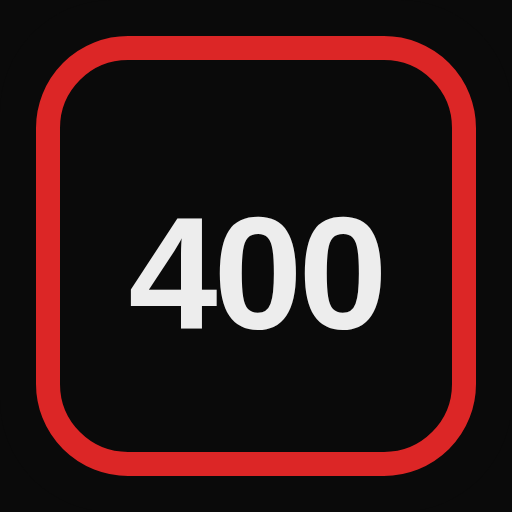
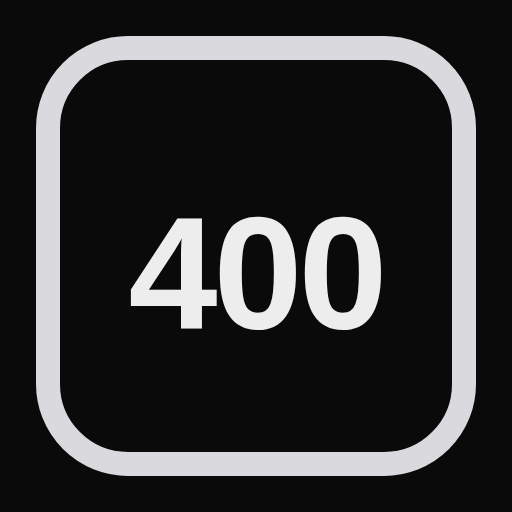
style: srebrne zamiast czerwieni/bursztynu/niebieskiego, metaliczny połysk kart i przycisków, ikony kategorii na kafelkach DIY

Changed region(s): [[0.0625, 0.0625, 0.9375, 0.9375]]

diff --git a/src/app/Encyclopedia.tsx b/src/app/Encyclopedia.tsx
@@ -21,7 +21,7 @@ import { EngineTable, FluidsTable, PartSourceNote, OemQuickList, TorqueTable } f
 import { PARTS } from '../lib/parts-catalog';
 import ModelThumb from './ModelThumb';
 import EntryTile from './ui/EntryTile';
-import { excerptOf, getIssueImage, getTipImage } from '../lib/entry-tile';
+import { excerptOf, getIssueImage, getTipIcon, getTipImage } from '../lib/entry-tile';
 import { tileImageFor } from '../lib/entry-media';
 import { isGeneralEntry, isSpecificToBody } from '../lib/model-images';
 import { hasSource } from './IssueDetails';
@@ -674,7 +674,7 @@ export default function Encyclopedia({ initialTab, initialItems }: { initialTab?
             )}
             <div className="space-y-3">
               {diyTips.map((t, idx) => (
-                <EntryTile key={t.id || idx} item={t} icon="diy" image={tileImageFor(t.id, getTipImage(t.Nazwa))} excerpt={excerptOf(t, ['Opis', 'Rozwiązanie'])} sourced={hasSource(t)} sourcedTestId="diy-sourced">
+                <EntryTile key={t.id || idx} item={t} icon={getTipIcon(t.Nazwa)} image={tileImageFor(t.id, getTipImage(t.Nazwa))} excerpt={excerptOf(t, ['Opis', 'Rozwiązanie'])} sourced={hasSource(t)} sourcedTestId="diy-sourced">
                   <VehicleMatchBadge item={t} />
                 </EntryTile>
               ))}
@@ -1274,7 +1274,7 @@ export default function Encyclopedia({ initialTab, initialItems }: { initialTab?
                   <tr className="border-b border-white/5"><td className="p-2">Miejsca</td><td className="text-center">3-6</td><td className="text-center">3-6</td><td className="text-center">5-6</td><td className="text-center">6-9</td></tr>
                   <tr className="border-b border-white/5"><td className="p-2">Silniki</td><td className="text-center">4.3-5.7L</td><td className="text-center">4.3-5.7L</td><td className="text-center">5.7L</td><td className="text-center">5.7-7.4L</td></tr>
                   <tr className="border-b border-white/5"><td className="p-2">Spalanie</td><td className="text-center">12-15 L</td><td className="text-center">14-17 L</td><td className="text-center">14-16 L</td><td className="text-center">15-18 L</td></tr>
-                  <tr className="border-b border-white/5"><td className="p-2">Cena części</td><td className="text-center text-green-400">Niska</td><td className="text-center text-silver-400">Średnia</td><td className="text-center text-silver-400">Średnia</td><td className="text-center text-silver-400">Wyższa</td></tr>
+                  <tr className="border-b border-white/5"><td className="p-2">Cena części</td><td className="text-center font-semibold text-silver-100">Niska</td><td className="text-center text-silver-400">Średnia</td><td className="text-center text-silver-400">Średnia</td><td className="text-center text-silver-400">Wyższa</td></tr>
                 </tbody>
               </table>
             </div>

diff --git a/src/app/ui/EntryTile.tsx b/src/app/ui/EntryTile.tsx
@@ -29,12 +29,12 @@ export default function EntryTile({ item, icon, image, excerpt, headingLevel = 3
   const titleClass = '!m-0 !text-[15px] !leading-snug !font-semibold text-neutral-100 line-clamp-2 break-words';
   return (
     <div
-      className="relative overflow-hidden rounded-2xl border border-white/10 bg-neutral-950 has-[a:active]:bg-neutral-900 has-[a:focus-visible]:outline has-[a:focus-visible]:outline-2 has-[a:focus-visible]:-outline-offset-2 has-[a:focus-visible]:outline-silver-400"
+      className="relative overflow-hidden rounded-2xl border border-white/10 bg-neutral-950 transition-colors hover:border-white/25 has-[a:active]:border-white/30 has-[a:active]:[background-image:none] has-[a:active]:bg-neutral-900 has-[a:focus-visible]:outline has-[a:focus-visible]:outline-2 has-[a:focus-visible]:-outline-offset-2 has-[a:focus-visible]:outline-silver-400"
       data-testid="entry-tile"
     >
       <div className="p-3">
         <div className="flex items-start gap-3">
-          <span className="relative flex h-16 w-16 shrink-0 items-center justify-center overflow-hidden rounded-xl border border-white/15 bg-neutral-900" data-testid="tile-thumb">
+          <span className="relative flex h-16 w-16 shrink-0 items-center justify-center overflow-hidden rounded-xl border border-white/15 bg-neutral-900 shadow-[inset_0_1px_0_rgba(255,255,255,.12)]" data-testid="tile-thumb">
             {image ? (
               <Image src={image} alt="" width={128} height={128} sizes="64px" className="h-full w-full object-cover" />
             ) : (
@@ -52,7 +52,7 @@ export default function EntryTile({ item, icon, image, excerpt, headingLevel = 3
             <div className="mt-1.5 flex flex-wrap gap-1.5">
               <span className={`${PILL} border-white/15 bg-white/5 text-neutral-300`} data-testid="tile-model">{modelLabel(item)}</span>
               {years && <span className={`${PILL} border-silver-600/40 text-silver-300`} data-testid="tile-years">{years}</span>}
-              {sourced && <span className={`${PILL} border-emerald-500/40 text-emerald-300`} data-testid={sourcedTestId || 'tile-sourced'}>ze źródłem</span>}
+              {sourced && <span className={`${PILL} border-silver-200/40 text-silver-100`} data-testid={sourcedTestId || 'tile-sourced'}>ze źródłem</span>}
             </div>
           </div>
           {href && <span aria-hidden="true" className="self-center text-xl text-silver-400">›</span>}

diff --git a/src/app/narzedzia/ToolsHub.module.css b/src/app/narzedzia/ToolsHub.module.css
@@ -9,9 +9,9 @@
 .page .card { position:relative; display:flex; flex-direction:column; align-items:flex-start; justify-content:flex-start; width:100%; max-width:100%; min-width:0; min-height:0; gap:0; margin:0; padding:18px; border:1px solid rgba(255,255,255,.14); border-radius:20px; background-color:#1a1a1d; background-image:var(--card-gradient); box-shadow:var(--card-sheen); color:#ededed; text-align:left; text-decoration:none; white-space:normal; overflow-wrap:anywhere; transition:border-color .15s ease,background-color .15s ease; }
 .page .card:hover { background-color:#202024; border-color:var(--accent); }
 .page .card:focus-visible,.page .back:focus-visible { outline:3px solid var(--accent-soft); outline-offset:3px; }
-.page .icon { display:flex; align-items:center; justify-content:center; flex:0 0 auto; width:36px; height:36px; margin:0 0 10px; border:1px solid #5b2a2a; border-radius:8px; background:#261818; color:var(--accent-soft); }
+.page .icon { display:flex; align-items:center; justify-content:center; flex:0 0 auto; width:36px; height:36px; margin:0 0 10px; border:1px solid rgba(255,255,255,.2); border-radius:8px; background:#1f1f23; color:var(--accent-soft); }
 .page .icon svg { display:block; width:20px; height:20px; flex:0 0 auto; }
-.page .tag { display:block; margin:0 0 5px; color:#c2b391; font-size:10px; font-weight:650; line-height:1.5; letter-spacing:.06em; text-transform:uppercase; }
+.page .tag { display:block; margin:0 0 5px; color:var(--muted); font-size:10px; font-weight:650; line-height:1.5; letter-spacing:.06em; text-transform:uppercase; }
 .page .cardTitle { display:block; width:100%; margin:0 0 8px; padding:0; color:#fafafa; font-size:20px; font-weight:700; line-height:1.3; letter-spacing:-.015em; text-wrap:initial; white-space:normal; overflow-wrap:break-word; }
 .page .description { display:block; width:100%; max-width:100%; margin:0 0 8px; color:#d0d5dc; font-size:14px; line-height:1.6; white-space:normal; overflow-wrap:anywhere; }
 .page .example { display:block; width:100%; max-width:100%; margin:0 0 12px; color:#b5beca; font-size:12px; line-height:1.6; white-space:normal; overflow-wrap:anywhere; }

diff --git a/src/app/narzedzia/diagnostyka/page.tsx b/src/app/narzedzia/diagnostyka/page.tsx
@@ -18,7 +18,7 @@ export default function Diagnostics() {
     finally { setLoading(false); }
   }
   const severityLabel: Record<string, string> = { information: 'Informacja', moderate: 'Umiarkowana pilność', high: 'Wysoka pilność' };
-  const severityStyle: Record<string, string> = { information: 'bg-blue-100 text-blue-800', moderate: 'bg-danger-950/60 text-danger-300', high: 'bg-danger-950/60 text-danger-300' };
+  const severityStyle: Record<string, string> = { information: 'bg-neutral-900 text-silver-200', moderate: 'bg-danger-950/60 text-danger-300', high: 'bg-danger-950/60 text-danger-300' };
   return <div className="mx-auto max-w-4xl space-y-4 p-4">
     <section className="rounded-xl border border-slate-200 bg-white p-5 shadow-sm">
       <h1 className="text-2xl font-semibold text-slate-900">Co oznacza kod błędu?</h1>
@@ -28,7 +28,7 @@ export default function Diagnostics() {
           <label htmlFor="diagnostics-query" className="mb-1 block text-sm font-medium text-slate-900">Kod błędu lub objaw</label>
           <input id="diagnostics-query" value={query} onChange={event => setQuery(event.target.value)} placeholder="Wpisz kod błędu lub objaw" className="w-full rounded-lg border border-slate-300 px-3 py-2" />
         </div>
-        <button type="submit" disabled={loading} className="rounded-lg bg-blue-600 px-4 py-2 font-medium text-white hover:bg-blue-700 disabled:opacity-50">{loading ? 'Szukam…' : 'Sprawdź kod'}</button>
+        <button type="submit" disabled={loading} className="rounded-lg bg-silver-600 px-4 py-2 font-medium text-neutral-950 hover:bg-silver-500 disabled:opacity-50">{loading ? 'Szukam…' : 'Sprawdź kod'}</button>
       </form>
       <div className="mt-3 flex flex-wrap gap-2">{EXAMPLES.map(example => <button key={example} type="button" onClick={() => setQuery(example)} className="rounded-full bg-slate-100 px-3 py-1 text-xs text-slate-700 hover:bg-slate-200">{example}</button>)}</div>
       {error && <p className="mt-3 rounded bg-danger-950/60 p-3 text-sm text-danger-300">{error}</p>}

diff --git a/src/app/KnowledgeCategory.tsx b/src/app/KnowledgeCategory.tsx
@@ -2,7 +2,7 @@
 import { useEffect, useMemo, useState } from 'react';
 import { useVehicleMaterialFilter, VehicleMatchBadge } from './VehicleMaterialFilter';
 import EntryTile from './ui/EntryTile';
-import { excerptOf, getTipImage } from '../lib/entry-tile';
+import { excerptOf, getTipIcon, getTipImage } from '../lib/entry-tile';
 import { tileImageFor } from '../lib/entry-media';
 import RelatedMaterials from './RelatedMaterials';
 import { getRelatedMaterials } from '../lib/related-materials';
@@ -59,7 +59,7 @@ export default function KnowledgeCategory({ section, initialItems }: { section: 
       <input id="category-query" type="search" maxLength={120} value={query} onChange={event => setQuery(event.target.value)} className="w-full rounded border border-white/20 bg-neutral-900 p-3" />
       <p role="status">Widoczne: {results.length}. Materiały tej kategorii przed filtrowaniem: {categoryTotal}.</p>
       {!categoryTotal ? <p>W pobranej bazie nie ma wpisów tej kategorii.</p> : !results.length ? <div><p>Brak wyników przy obecnych ustawieniach. Sprawdź filtr profilu albo wyszukiwaną frazę.</p><button type="button" className="mt-2 underline" onClick={() => setQuery('')}>Wyczyść frazę wyszukiwania</button></div> : <ul className="space-y-3">{results.map((item, index) => <li key={item.id || index}>
-        <EntryTile item={item} headingLevel={2} icon={section === 'usterki' ? 'usterki' : section === 'kody-obd' ? 'obd' : section === 'modele' ? 'modele' : 'diy'} image={tileImageFor(item.id, getTipImage(item.Nazwa))} excerpt={excerptOf(item, ['Opis', 'Objawy', 'Rozwiązanie'])}>
+        <EntryTile item={item} headingLevel={2} icon={section === 'usterki' ? 'usterki' : section === 'kody-obd' ? 'obd' : section === 'modele' ? 'modele' : getTipIcon(item.Nazwa)} image={tileImageFor(item.id, getTipImage(item.Nazwa))} excerpt={excerptOf(item, ['Opis', 'Objawy', 'Rozwiązanie'])}>
           <VehicleMatchBadge item={item} />
         </EntryTile>
       </li>)}</ul>}

diff --git a/src/lib/entry-tile.ts b/src/lib/entry-tile.ts
@@ -27,6 +27,30 @@ export function getTipImage(nazwa: string): string | null {
   return null;
 }
 
+/** Nazwy ikon liniowych (podzbiór CategoryIconName) używanych jako zastępnik miniatury DIY. */
+export type TileIconName = 'diy' | 'brake' | 'gear' | 'engine' | 'drop' | 'bolt' | 'snow' | 'thermo' | 'obd' | 'wave';
+
+/**
+ * Ikona zastępcza kafelka DIY (gdy wpis nie ma zdjęcia ani rysunku) wg tematu wpisu: hamulce, skrzynia, silnik, płyny,
+ * elektryka, klimatyzacja, chłodzenie, diagnostyka, zawieszenie. Bez dopasowania zostaje ogólna ikona „klucz”.
+ */
+export function getTipIcon(nazwa: string): TileIconName {
+  const n = nazwa.toLowerCase();
+  const rules: [TileIconName, string[]][] = [
+    ['brake', ['hamulc', 'klock', 'tarcz', 'zacisk', 'abs']],
+    ['gear', ['skrzyni', '4l60', '4l80', 'np231', 'rozdzielcz', 'sprzęg', 'sprzeg', 'most ', 'dyferencj']],
+    ['snow', ['klima', 'ogrzew', 'nagrzewnic']],
+    ['thermo', ['chłodz', 'chlodz', 'termostat', 'chłodnic', 'chlodnic']],
+    ['drop', ['płyn', 'plyn', 'olej', 'paliw', 'atf', 'wyciek']],
+    ['bolt', ['elektr', 'akumulator', 'alternator', 'rozrusz', 'bezpiecz', 'przekaź', 'przekaz', 'żarów', 'zarow', 'reflektor', 'lamp', 'światł', 'swiatl', 'instalacj']],
+    ['obd', ['obd', 'kod ', 'diagnost']],
+    ['wave', ['zawiesz', 'amortyz', 'wahacz', 'stabiliz', 'sworz']],
+    ['engine', ['silnik', 'kolektor', 'wtrysk', 'głowic', 'glowic', 'rozrząd', 'rozrzad', 'świec', 'swiec', 'uszczelk']],
+  ];
+  for (const [icon, keys] of rules) if (keys.some(k => n.includes(k))) return icon;
+  return 'diy';
+}
+
 /** Zdjęcie wpisu usterki (gdy jest) — w przeciwnym razie ilustracja z mapy tytułów. */
 export function getIssueImage(nazwa: string): string | null {
   const n = nazwa.toLowerCase();

diff --git a/src/app/narzedzia/kalkulatory/page.tsx b/src/app/narzedzia/kalkulatory/page.tsx
@@ -58,8 +58,8 @@ export default function Calculators() {
  </div>
  </div>
 
- <div className="rounded-lg bg-blue-50 p-4">
- <h2 className="text-sm font-semibold text-blue-900">Planowane opony</h2>
+ <div className="rounded-lg bg-neutral-900 p-4">
+ <h2 className="text-sm font-semibold text-silver-100">Planowane opony</h2>
  <div className="mt-3 grid grid-cols-3 gap-3">
  <label className="text-sm">Szerokość, mm<input className="mt-1 w-full rounded border px-2 py-2" value={newWidth} onChange={event => setNewWidth(event.target.value)} /></label>
  <label className="text-sm">Profil, %<input className="mt-1 w-full rounded border px-2 py-2" value={newAspect} onChange={event => setNewAspect(event.target.value)} /></label>
@@ -72,7 +72,7 @@ export default function Calculators() {
  <label className="text-sm">Wskazanie licznika, km/h<input className="mt-1 w-full rounded border px-2 py-2" value={speed} onChange={event => setSpeed(event.target.value)} /></label>
  </div>
 
- <button type="submit" disabled={loading} className="w-full rounded-lg bg-blue-600 px-4 py-3 font-semibold text-white hover:bg-blue-700 disabled:opacity-50">
+ <button type="submit" disabled={loading} className="w-full rounded-lg bg-silver-600 px-4 py-3 font-semibold text-neutral-950 hover:bg-silver-500 disabled:opacity-50">
  {loading ? 'Obliczam…' : 'Porównaj opony'}
  </button>
  </form>

diff --git a/src/app/GroupedNavigation.tsx b/src/app/GroupedNavigation.tsx
@@ -52,7 +52,7 @@ export default function GroupedNavigation({ categories, active, onSelect, instan
       </li>)}</ul>
     </div>
     <Link href="/narzedzia" prefetch={false} style={{ display: 'flex', justifyContent: 'center', alignItems: 'center', minHeight: 48, marginTop: 12, padding: '8px 12px', borderRadius: 8, background: 'var(--accent)', color: '#111111', fontSize: 14, fontWeight: 700, textAlign: 'center', textDecoration: 'none' }}>Narzędzia: RPO, OBD, opony i części</Link>
-    {['vin', 'usterki', 'paliwo', 'mojeauto', 'kupujacy'].includes(active) && <div style={{ marginTop: 12, padding: 12, border: '1px solid #3f1d1f', borderRadius: 8 }}>
+    {['vin', 'usterki', 'paliwo', 'mojeauto', 'kupujacy'].includes(active) && <div style={{ marginTop: 12, padding: 12, border: '1px solid rgba(255,255,255,.14)', borderRadius: 8 }}>
       <Link href="/narzedzia/dane-pojazdu" prefetch={false} style={{ display: 'flex', alignItems: 'center', minHeight: 44, color: 'var(--accent-soft)', fontSize: 14, lineHeight: '20px', textDecoration: 'underline' }}>Oficjalne dane VIN, NHTSA i EPA</Link>
       <p style={{ margin: '4px 0 0', color: '#a7adb7', fontSize: 12, lineHeight: '18px' }}>Dekoder VIN, kampanie bezpieczeństwa, zgłoszenia właścicieli i spalanie. Dostęp także bez wpisywania VIN; wybierz model i rocznik w narzędziu.</p>
     </div>}

diff --git a/src/app/globals.css b/src/app/globals.css
@@ -63,3 +63,10 @@ a:hover > .icon-tile, a:focus-visible > .icon-tile { border-color:rgba(255,255,2
 @keyframes studio-in { from { opacity:0; } to { opacity:1; } }
 .studio-slide { animation:studio-in .28s ease-out both; }
 @media (prefers-reduced-motion:reduce) { .studio-slide { animation:none; } }
+
+/* === Dopracowanie „aplikacyjne”: delikatny metaliczny połysk przycisków i kart (bez zmiany wymiarów układu) === */
+button, a, summary, [role='button'] { touch-action:manipulation; }
+.bg-silver-600:not([class*='bg-silver-600/']):not([class*='shadow']), .bg-silver-500:not([class*='bg-silver-500/']):not([class*='shadow']) { box-shadow:inset 0 1px 0 rgba(255,255,255,.85), inset 0 -1px 0 rgba(0,0,0,.18), 0 1px 2px rgba(0,0,0,.45); transition:filter 120ms ease, background-image 120ms ease; }
+.bg-silver-600:not([class*='bg-silver-600/']):active, .bg-silver-500:not([class*='bg-silver-500/']):active { filter:brightness(.93); }
+button.bg-neutral-800, a.bg-neutral-800 { background-image:linear-gradient(180deg,#2e2e33 0%,#222226 100%); box-shadow:inset 0 1px 0 rgba(255,255,255,.08); }
+@media (hover:hover) { :is(.bg-neutral-900,.bg-neutral-950).border:is(a, button):hover { border-color:rgba(255,255,255,.28); } }

diff --git a/src/app/kody-obd/[code]/page.tsx b/src/app/kody-obd/[code]/page.tsx
@@ -55,7 +55,7 @@ function MissingCode({ code }: { code: string }) {
 const severityVisual = {
   critical: { label: 'Waga: wysoka — nie ignoruj', className: 'bg-danger-500' },
   warning: { label: 'Waga: średnia — zdiagnozuj', className: 'bg-danger-600' },
-  info: { label: 'Waga: informacyjna', className: 'bg-sky-400' }
+  info: { label: 'Waga: informacyjna', className: 'bg-silver-400' }
 } as const;
 
 export default async function ObdCodePage({ params }: { params: Promise<{ code: string }> }) {

diff --git a/src/app/VerifiedSpecs.tsx b/src/app/VerifiedSpecs.tsx
@@ -85,8 +85,8 @@ export function FluidsTable() {
 }
 
 const STATUS_CLASS: Record<Part['status'], string> = {
-  potwierdzone: 'border-emerald-500/40 text-emerald-300',
-  poprawione: 'border-sky-500/40 text-sky-300',
+  potwierdzone: 'border-silver-200/50 text-silver-100',
+  poprawione: 'border-silver-500/50 text-silver-300',
   niezweryfikowane: 'border-silver-500/50 text-silver-300',
 };
 
